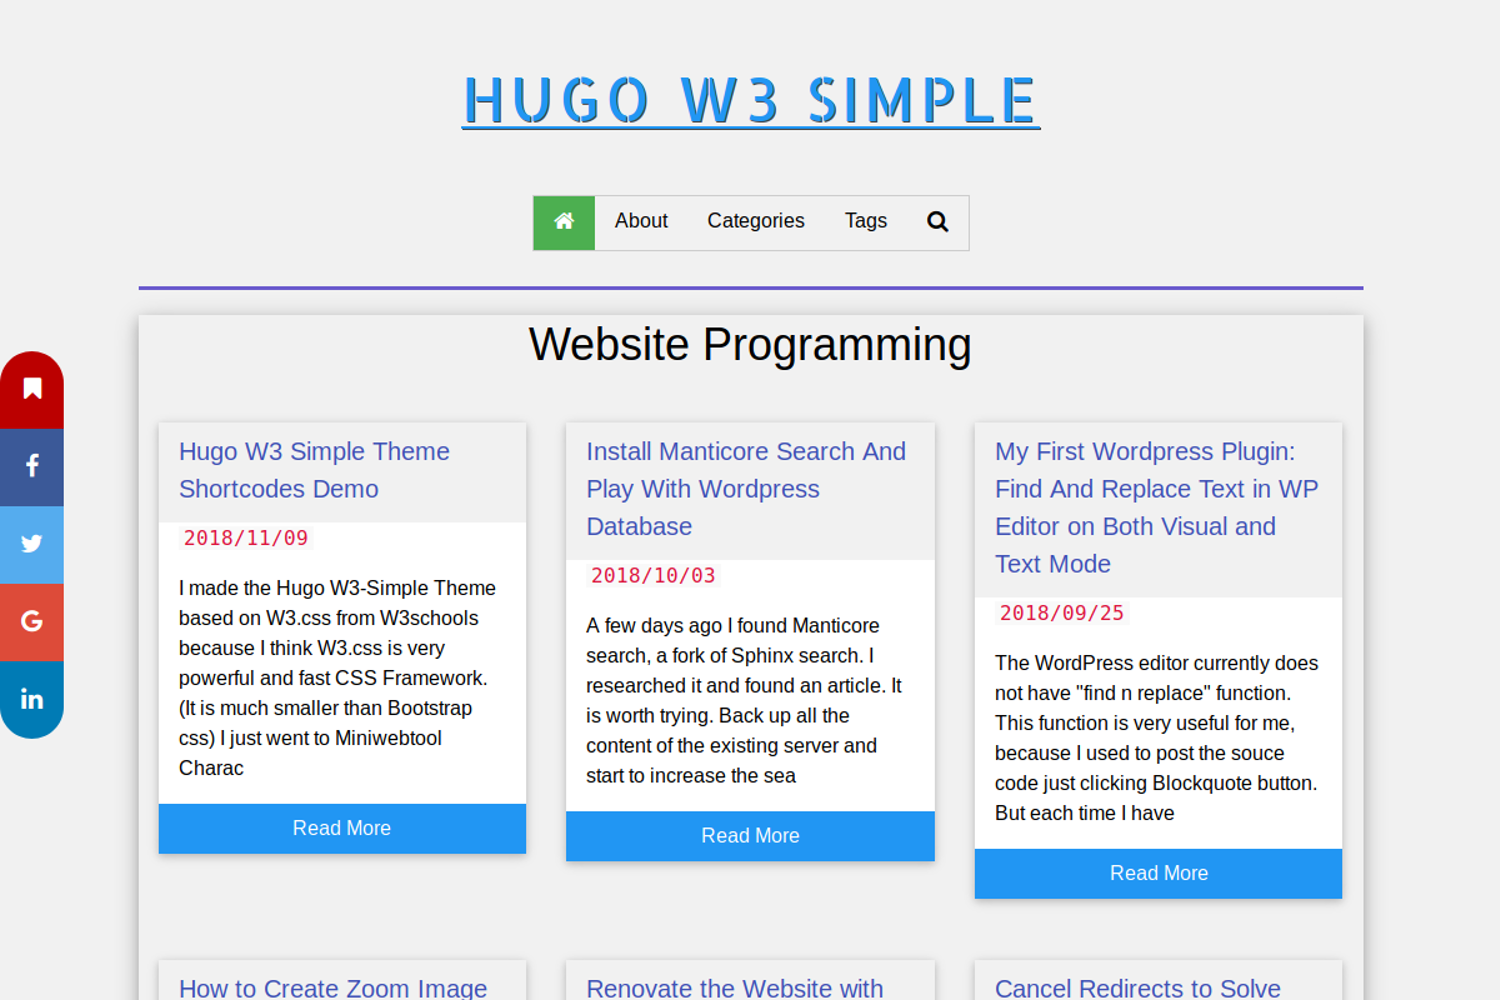
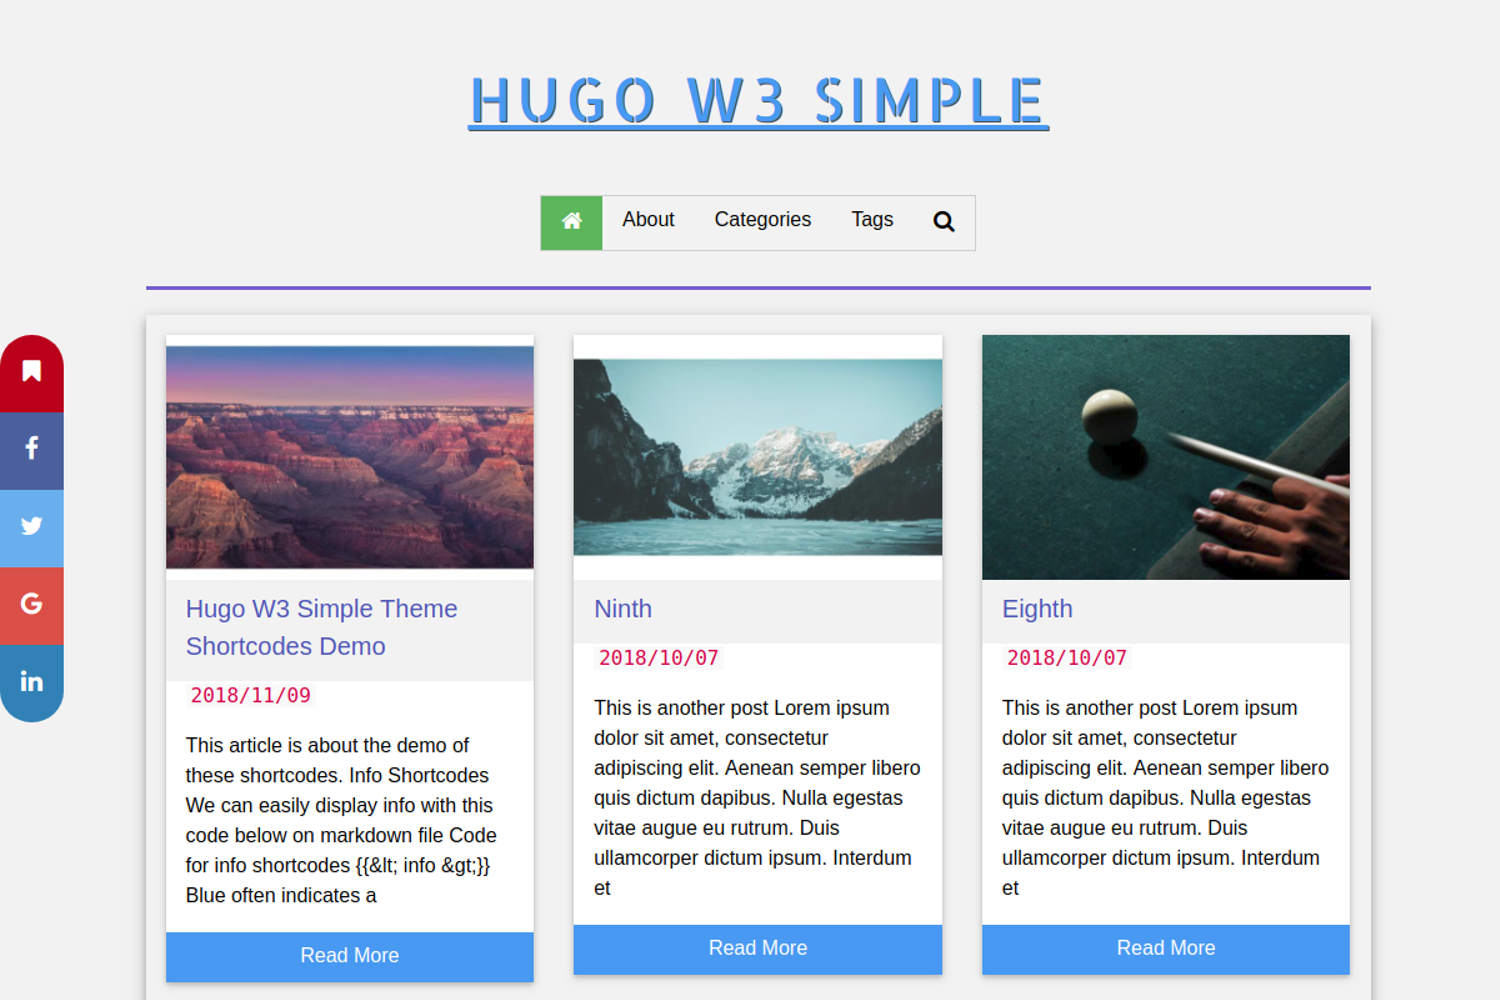
example site tested

diff --git a/layouts/_default/list.html b/layouts/_default/list.html
@@ -3,8 +3,7 @@
 {{if not .IsHome }}
 <h1 class="w3-center">{{ .Title | markdownify }}</h1>
 {{ end }}
-{{ $paginator := .Paginate (where .Pages "Type" "post") }}
-
+{{ $paginator := .Paginate (where .Data.Pages "Section" "!=" "") }}
 
 {{ if  .Site.Params.gridstyle }}
 <!-- grid list style -->

diff --git a/exampleSite/content/posts/eighth.md b/exampleSite/content/posts/eighth.md
@@ -1,11 +1,16 @@
 ---
 title: "Eighth"
 date: 2018-10-07T11:40:11+02:00
-publishdate: 2018-10-07T11:40:11+02:00
-image: "/images/blog/8.jpg"
-tags: ["interesting"]
-comments: false
-thumb-rigo-erives-594315-unsplash.jpg
+type: post
+categories:
+- Website Programming
+tags:
+- hugo
+- interesting
+draft: false
+thumbnail: https://raw.githubusercontent.com/jesselau76/hugo-w3-simple/master/exampleSite/images/thumb-rigo-erives-594315-unsplash.jpg
+
 ---
+
 # This is another post
 Lorem ipsum dolor sit amet, consectetur adipiscing elit. Aenean semper libero quis dictum dapibus. Nulla egestas vitae augue eu rutrum. Duis ullamcorper dictum ipsum. Interdum et malesuada fames ac ante ipsum primis in faucibus. Suspendisse tortor dui, fermentum non dapibus id, volutpat non odio. Vestibulum ante ipsum primis in faucibus orci luctus et ultrices posuere cubilia Curae; Maecenas fringilla tempus urna ac laoreet. Curabitur sed bibendum lectus. Vivamus gravida venenatis porttitor. Phasellus aliquet nibh vel accumsan malesuada. Nulla nibh enim, auctor nec rhoncus a, pulvinar at tortor. Donec sodales consequat dolor et condimentum. Praesent convallis massa sit amet ultrices porta. Sed commodo, odio et porttitor fringilla, mi tortor sodales nulla, a fermentum dolor mi pulvinar mi. 

diff --git a/exampleSite/content/posts/fourth.md b/exampleSite/content/posts/fourth.md
@@ -5,7 +5,7 @@ publishdate: 2018-10-07T11:39:16+02:00
 image: "/images/blog/4.jpg"
 tags: ["interesting"]
 comments: false
-thumb-samuele-errico-piccarini-206026-unsplash.jpg
+thumbnail: https://raw.githubusercontent.com/jesselau76/hugo-w3-simple/master/exampleSite/images/thumb-samuele-errico-piccarini-206026-unsplash.jpg
 ---
 # This is another post
 Lorem ipsum dolor sit amet, consectetur adipiscing elit. Aenean semper libero quis dictum dapibus. Nulla egestas vitae augue eu rutrum. Duis ullamcorper dictum ipsum. Interdum et malesuada fames ac ante ipsum primis in faucibus. Suspendisse tortor dui, fermentum non dapibus id, volutpat non odio. Vestibulum ante ipsum primis in faucibus orci luctus et ultrices posuere cubilia Curae; Maecenas fringilla tempus urna ac laoreet. Curabitur sed bibendum lectus. Vivamus gravida venenatis porttitor. Phasellus aliquet nibh vel accumsan malesuada. Nulla nibh enim, auctor nec rhoncus a, pulvinar at tortor. Donec sodales consequat dolor et condimentum. Praesent convallis massa sit amet ultrices porta. Sed commodo, odio et porttitor fringilla, mi tortor sodales nulla, a fermentum dolor mi pulvinar mi. 

diff --git a/exampleSite/content/posts/sixth.md b/exampleSite/content/posts/sixth.md
@@ -5,7 +5,7 @@ publishdate: 2018-10-07T11:39:25+02:00
 image: "/images/blog/6.jpg"
 tags: ["interesting", "drink"]
 comments: false
-thumbnail: thumb-christine-roy-343235-unsplash.jpg
+thumbnail: https://raw.githubusercontent.com/jesselau76/hugo-w3-simple/master/exampleSite/images/thumb-christine-roy-343235-unsplash.jpg
 ---
 # This is another post
 Lorem ipsum dolor sit amet, consectetur adipiscing elit. Aenean semper libero quis dictum dapibus. Nulla egestas vitae augue eu rutrum. Duis ullamcorper dictum ipsum. Interdum et malesuada fames ac ante ipsum primis in faucibus. Suspendisse tortor dui, fermentum non dapibus id, volutpat non odio. Vestibulum ante ipsum primis in faucibus orci luctus et ultrices posuere cubilia Curae; Maecenas fringilla tempus urna ac laoreet. Curabitur sed bibendum lectus. Vivamus gravida venenatis porttitor. Phasellus aliquet nibh vel accumsan malesuada. Nulla nibh enim, auctor nec rhoncus a, pulvinar at tortor. Donec sodales consequat dolor et condimentum. Praesent convallis massa sit amet ultrices porta. Sed commodo, odio et porttitor fringilla, mi tortor sodales nulla, a fermentum dolor mi pulvinar mi. 

diff --git a/exampleSite/content/posts/ninth.md b/exampleSite/content/posts/ninth.md
@@ -5,7 +5,7 @@ publishdate: 2018-10-07T11:40:14+02:00
 image: "/images/blog/9.jpg"
 tags: ["interesting", "drink"]
 comments: false
-thumb-joshua-fuller-667473-unsplash.jpg
+thumbnail: https://raw.githubusercontent.com/jesselau76/hugo-w3-simple/master/exampleSite/images/thumb-joshua-fuller-667473-unsplash.jpg
 ---
 # This is another post
 Lorem ipsum dolor sit amet, consectetur adipiscing elit. Aenean semper libero quis dictum dapibus. Nulla egestas vitae augue eu rutrum. Duis ullamcorper dictum ipsum. Interdum et malesuada fames ac ante ipsum primis in faucibus. Suspendisse tortor dui, fermentum non dapibus id, volutpat non odio. Vestibulum ante ipsum primis in faucibus orci luctus et ultrices posuere cubilia Curae; Maecenas fringilla tempus urna ac laoreet. Curabitur sed bibendum lectus. Vivamus gravida venenatis porttitor. Phasellus aliquet nibh vel accumsan malesuada. Nulla nibh enim, auctor nec rhoncus a, pulvinar at tortor. Donec sodales consequat dolor et condimentum. Praesent convallis massa sit amet ultrices porta. Sed commodo, odio et porttitor fringilla, mi tortor sodales nulla, a fermentum dolor mi pulvinar mi. 

diff --git a/exampleSite/content/posts/seventh.md b/exampleSite/content/posts/seventh.md
@@ -5,7 +5,7 @@ publishdate: 2018-10-07T11:39:29+02:00
 image: "/images/blog/7.jpg"
 tags: ["interesting"]
 comments: false
-thumb-jeremy-bishop-211453-unsplash.jpg
+thumbnail: https://raw.githubusercontent.com/jesselau76/hugo-w3-simple/master/exampleSite/images/thumb-jeremy-bishop-211453-unsplash.jpg
 ---
 # This is another post
 Lorem ipsum dolor sit amet, consectetur adipiscing elit. Aenean semper libero quis dictum dapibus. Nulla egestas vitae augue eu rutrum. Duis ullamcorper dictum ipsum. Interdum et malesuada fames ac ante ipsum primis in faucibus. Suspendisse tortor dui, fermentum non dapibus id, volutpat non odio. Vestibulum ante ipsum primis in faucibus orci luctus et ultrices posuere cubilia Curae; Maecenas fringilla tempus urna ac laoreet. Curabitur sed bibendum lectus. Vivamus gravida venenatis porttitor. Phasellus aliquet nibh vel accumsan malesuada. Nulla nibh enim, auctor nec rhoncus a, pulvinar at tortor. Donec sodales consequat dolor et condimentum. Praesent convallis massa sit amet ultrices porta. Sed commodo, odio et porttitor fringilla, mi tortor sodales nulla, a fermentum dolor mi pulvinar mi. 

diff --git a/exampleSite/content/posts/my-first-post.md b/exampleSite/content/posts/my-first-post.md
@@ -5,7 +5,7 @@ publishdate: 2018-10-07T11:17:14+02:00
 image: "/images/blog/1.jpg"
 tags: ["interesting"]
 comments: false
-thumb-samuel-zeller-4135-unsplash.jpg
+thumbnail: https://raw.githubusercontent.com/jesselau76/hugo-w3-simple/master/exampleSite/images/thumb-samuel-zeller-4135-unsplash.jpg
 ---
 # This is my first post
 Lorem ipsum dolor sit amet, consectetur adipiscing elit. Aenean semper libero quis dictum dapibus. Nulla egestas vitae augue eu rutrum. Duis ullamcorper dictum ipsum. Interdum et malesuada fames ac ante ipsum primis in faucibus. Suspendisse tortor dui, fermentum non dapibus id, volutpat non odio. Vestibulum ante ipsum primis in faucibus orci luctus et ultrices posuere cubilia Curae; Maecenas fringilla tempus urna ac laoreet. Curabitur sed bibendum lectus. Vivamus gravida venenatis porttitor. Phasellus aliquet nibh vel accumsan malesuada. Nulla nibh enim, auctor nec rhoncus a, pulvinar at tortor. Donec sodales consequat dolor et condimentum. Praesent convallis massa sit amet ultrices porta. Sed commodo, odio et porttitor fringilla, mi tortor sodales nulla, a fermentum dolor mi pulvinar mi. 

diff --git a/exampleSite/content/posts/second.md b/exampleSite/content/posts/second.md
@@ -5,7 +5,7 @@ publishdate: 2018-10-07T11:39:10+02:00
 image: "/images/blog/2.jpg"
 tags: ["interesting"]
 comments: false
-thumb-john-towner-177554-unsplash.jpg
+thumbnail: https://raw.githubusercontent.com/jesselau76/hugo-w3-simple/master/exampleSite/images/thumb-john-towner-177554-unsplash.jpg
 ---
 # This is another post
 Lorem ipsum dolor sit amet, consectetur adipiscing elit. Aenean semper libero quis dictum dapibus. Nulla egestas vitae augue eu rutrum. Duis ullamcorper dictum ipsum. Interdum et malesuada fames ac ante ipsum primis in faucibus. Suspendisse tortor dui, fermentum non dapibus id, volutpat non odio. Vestibulum ante ipsum primis in faucibus orci luctus et ultrices posuere cubilia Curae; Maecenas fringilla tempus urna ac laoreet. Curabitur sed bibendum lectus. Vivamus gravida venenatis porttitor. Phasellus aliquet nibh vel accumsan malesuada. Nulla nibh enim, auctor nec rhoncus a, pulvinar at tortor. Donec sodales consequat dolor et condimentum. Praesent convallis massa sit amet ultrices porta. Sed commodo, odio et porttitor fringilla, mi tortor sodales nulla, a fermentum dolor mi pulvinar mi. 

diff --git a/exampleSite/content/posts/third.md b/exampleSite/content/posts/third.md
@@ -5,7 +5,7 @@ publishdate: 2018-10-07T11:39:13+02:00
 image: "/images/blog/3.jpg"
 tags: ["interesting"]
 comments: false
-thumb-goran-ivos-343495-unsplash.jpg
+thumbnail: https://raw.githubusercontent.com/jesselau76/hugo-w3-simple/master/exampleSite/images/thumb-goran-ivos-343495-unsplash.jpg
 ---
 # This is another post
 Lorem ipsum dolor sit amet, consectetur adipiscing elit. Aenean semper libero quis dictum dapibus. Nulla egestas vitae augue eu rutrum. Duis ullamcorper dictum ipsum. Interdum et malesuada fames ac ante ipsum primis in faucibus. Suspendisse tortor dui, fermentum non dapibus id, volutpat non odio. Vestibulum ante ipsum primis in faucibus orci luctus et ultrices posuere cubilia Curae; Maecenas fringilla tempus urna ac laoreet. Curabitur sed bibendum lectus. Vivamus gravida venenatis porttitor. Phasellus aliquet nibh vel accumsan malesuada. Nulla nibh enim, auctor nec rhoncus a, pulvinar at tortor. Donec sodales consequat dolor et condimentum. Praesent convallis massa sit amet ultrices porta. Sed commodo, odio et porttitor fringilla, mi tortor sodales nulla, a fermentum dolor mi pulvinar mi. 

diff --git a/exampleSite/content/posts/shortcodes-demopage.md b/exampleSite/content/posts/shortcodes-demopage.md
@@ -2,7 +2,7 @@
 author: admin
 date: 2018-11-09T07:26:15+13:00
 draft: false
-title: W3 Simple Theme Shortcodes Demo
+title: Hugo W3 Simple Theme Shortcodes Demo
 type: post
 url: /w3-simple-shortcodes-demo/
 w3codecolor: true
@@ -10,7 +10,6 @@ categories:
 - Website Programming
 tags:
 - hugo
-thumb-jad-limcaco-183877-unsplash.jpg
 ---
 
 
@@ -189,3 +188,7 @@ y = json.loads(x)<br>
 # the result is a Python dictionary:<br>
 print(y["age"]) <br>
 {{< /colorcode >}}  
+
+
+## Test first picture without thumbnail set
+![Thanks to Unsplash](https://raw.githubusercontent.com/jesselau76/hugo-w3-simple/master/exampleSite/images/thumb-jad-limcaco-183877-unsplash.jpg)
